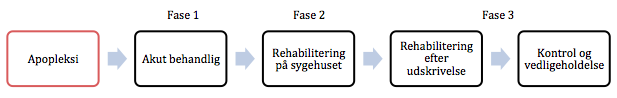
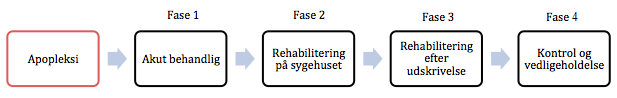
.

Changed region(s): [[0.8622, 0.1224, 0.9546, 0.2143], [0.7699, 0.0918, 0.8314, 0.2143], [0.6775, 0.1224, 0.7391, 0.2143]]

diff --git a/rapportAfsnit/cProblemanalyse/Rehabilitering.tex b/rapportAfsnit/cProblemanalyse/Rehabilitering.tex
@@ -10,24 +10,40 @@ Apopleksi patienten skal i samarbejde med lægen, sygeplejersken og andet hjælp
 Sundhedsstyrelsen har udarbejdet et forløbsprogram for rehabilitering af patienter med erhvervet hjerneskade. Forløbsprogrammet strækker sig fra at patienten erhverver hjerneskaden til at patienten har opnået bedst mulig funktionsevne, hvorefter der udføres kontrol og vedligeholdelse af funktionsevnen. Tidsperioden af rehabilitering varierer ift. hjerneskadens sværhedsgrad, samt sværhedsgraden af funktionstabet. %dog kan perioden vare flere år.  
 \cite{Sundhedsstyrelsen2011a}
 
-Forløbsprogrammet er essentielt i forhold til at kunne give patienten den korrekte rehabilitering. Patienterne har forskellige behov og er afhængige af hjælp fra plejepersonale. Deruodver kræves der forskellige former for teknologi i de forskellige faser. Det vil derfor være oplagt at undersøge, hvilken form for rehabilitering der er at foretrække i de enkelte faser som ses på \figref{trefaser}.
+Forløbsprogrammet er essentielt i forhold til at kunne give patienten den korrekte rehabilitering. Patienterne har forskellige behov og er afhængige af hjælp fra plejepersonale. Deruodver kræves der forskellige former for teknologi i de forskellige faser. Det vil derfor være oplagt at undersøge, hvilken form for rehabilitering der er at foretrække i de enkelte faser som ses på \figref{firefaser}.
 
 \begin{figure}[H]
 	\centering
 	\includegraphics[scale=0.6]{figures/bProblemanalyse/flowdiagram_faser1.png}
-	\caption{På figuren ses et overblik over de tre faser, som patienter med apopleksi skal igennem i forløbsprogrammet for rehabilitering \cite{Sundhedsstyrelsen2011a}} 
-	\label{trefaser}
+	\caption{På figuren ses et overblik over de fire faser, som patienter med apopleksi skal igennem i forløbsprogrammet for rehabilitering \cite{Sundhedsstyrelsen2011a}} 
+	\label{firefaser}
 \end{figure}
 
 \subsubsection{Den første fase}
-Som det vises på \figref{trefaser} afspejler første fase den del af forløbsprogrammet som foregår på sygehusets apopleksiafdeling. På apopleksiafdelingen foretages primært akut behandling for at begrænse skaderne. Når patientens sikkerhed er sikret og skaderne er begrænset påbegyndes den tidlige rehabilitering. Under den tidlige rehabilitering giver en speciallæge i neurologi en vurdering af patientens rehabiliteringsbehov. Derudover bliver patienterne overvåget i forhold til bevidsthed, ændringer og amnesi samt foretaget vurderinger af basale fysiologiske funktioner. Samtidig bliver der iværksat træning i diverse bevægelsesfunktioner, basale egenskaber og kommunikationsfunktioner. Patienterne gennemgår også en tidlig behandling og diagnostik for at undersøge komplicerende tilstande, som f.eks. vaskulære hændelser, blodpropper i ben og lunger og smerter. Patienterne vurderes i denne fase af fagkyndigt personale som ergoterapeut, fysioterapeut og audiologopæd \fxnote{høre og talepædagog}. Disse er med til, at sikre, at patienten udfører træningen korrekt i forhold til stilmulering og træning af bevægelsesfunktioner, taletræning og udførsel af basale daglige aktiviteter.\cite{Sundhedsstyrelsen2011a}
+Som det vises på \figref{firefaser} afspejler første fase den del af forløbsprogrammet som foregår på sygehusets apopleksiafdeling. På apopleksiafdelingen foretages primært akut behandling for at begrænse skaderne. Når patientens sikkerhed er sikret og skaderne er begrænset påbegyndes den tidlige rehabilitering. Under den tidlige rehabilitering giver en speciallæge i neurologi en vurdering af patientens rehabiliteringsbehov. Derudover bliver patienterne overvåget i forhold til bevidsthed, ændringer og amnesi samt foretaget vurderinger af basale fysiologiske funktioner. Samtidig bliver der iværksat træning i diverse bevægelsesfunktioner, basale egenskaber og kommunikationsfunktioner. Patienterne gennemgår også en tidlig behandling og diagnostik for at undersøge komplicerende tilstande, som f.eks. vaskulære hændelser, blodpropper i ben og lunger og smerter. Patienterne vurderes i denne fase af fagkyndigt personale som ergoterapeut, fysioterapeut og audiologopæd \fxnote{høre og talepædagog}. Disse er med til, at sikre, at patienten udfører træningen korrekt i forhold til stilmulering og træning af bevægelsesfunktioner, taletræning og udførsel af basale daglige aktiviteter.\cite{Sundhedsstyrelsen2011a}
 
 \subsubsection{Den anden fase}
-Det fremgår af \figref{trefaser}, at patienten i den anden fase gennemgår rehabilitering på sygehuset, hvor der er fokus på de skadede funktioner. Ligeledes bliver patienten på samme måde som i fase et undervist af fagkyndigt personale. Hvorefter patientens behov for rehabilitering og rehabiliteringens udvikling vurderes. Patienterne bliver i denne fase udredet i forhold til funktionsevne, mentale funktioner, bevægelsesfunktioner herunder bevægelse og mobilitet i led, knogler, reflekser og muskler samt rehabilitering med henblik på daglige aktiviteter. Hvis patienten vurderes til at have en stabil udvikling i rehabiliteringsprocessen, vil patienten blive udskrevet og påbegynde fase tre. \cite{Sundhedsstyrelsen2011a}
+Det fremgår af \figref{firefaser}, at patienten i den anden fase gennemgår rehabilitering på sygehuset, hvor der er fokus på de skadede funktioner. Ligeledes bliver patienten på samme måde som i fase et undervist af fagkyndigt personale. Hvorefter patientens behov for rehabilitering og rehabiliteringens udvikling vurderes. Patienterne bliver i denne fase udredet i forhold til funktionsevne, mentale funktioner, bevægelsesfunktioner herunder bevægelse og mobilitet i led, knogler, reflekser og muskler samt rehabilitering med henblik på daglige aktiviteter. Hvis patienten vurderes til at have en stabil udvikling i rehabiliteringsprocessen, vil patienten blive udskrevet og påbegynde fase tre. \cite{Sundhedsstyrelsen2011a}
 
 
 \subsubsection{Den tredje fase}
-I den tredje og sidste fase er patienten udskrevet fra sygehuset. Derved foregår rehabilitering som ambulant rehabilitering og selvstændig træning som det fremgår af \figref{trefaser}.  Selve rehabiliteringen i tredje fase er bygget op ud fra rehabiliteringsforløbet i den anden fase. Det afgørende er for den tredje faser, hvorvidt patienten skal vedblive rehabilitering på sygehuset, eller om patienten henvises til rehabilitering i de kommunale rehabiliteringscentre. Dette afgøres på baggrund af observationer foretaget i anden fase.  Den selvstændige træning, kan for patienterne med neglekt være en udfordring i forhold til bevægelsesmønstre og kropsholdning. Patienterne går derfor stadig til kontrol og vedligeholdelse for at sikre, at rehabiliteringens udvikling er stabil. Det kan i sidste ende have betydning for, hvor lang tid det tager for patienten at generhverve sine tabte funktioner. Den tredje fase varierer derfor fra patient til patient alt efter udviklingen af rehabiliteringen.\cite{Sundhedsstyrelsen2011a}
+I den tredje er patienten udskrevet fra sygehuset. Derved foregår rehabilitering som ambulant rehabilitering og selvstændig træning, som det fremgår af \figref{firefaser}.  Selve rehabiliteringen i tredje fase er bygget op ud fra rehabiliteringsforløbet i den anden fase. Det afgørende for den tredje fase er, hvorvidt patienten skal vedblive rehabilitering på sygehuset eller henvises til de kommunale rehabiliteringscentre. Dette afgøres på baggrund af observationer foretaget i anden fase. Den selvstændige træning kan for patienter med neglekt og balanceproblemer være en udfordring ift. bevægelsesmønstre og kropsholdning. \cite{Sundhedsstyrelsen2011a}
+
+\subsubsection{Den fjerde fase}
+Det fremgår på \figref{firefaser}, at fjerde fase er den afsluttende fase for behandlingsforløbet. Patienterne går stadig til kontrol og vedligeholdelse for at sikre, at rehabiliteringens udvikling er stabil. Det kan i sidste ende have betydning for, hvor lang tid det tager for patienten at generhverve sine tabte funktioner. Den fjerde fase varierer derfor fra patient til patient alt efter udviklingen af rehabiliteringen.\cite{Sundhedsstyrelsen2011a} \\
+
+\subsection{Organisatorisk}
+Sygehusvæsenet, almen praksis og kommuner har opgaver i alle faser, dog i varierende grad. Således har sygehuset flest opgaver i fase I og II, mens kommunen og almen praksis har flest opgaver i fase III (og IV) \cite{Sundhedsstyrelsen2011a}.
+
+%\section{Organisatorisk}
+%I sundhedssektoren arbejder de forskellige organisatoriske aktører på tværs af hinanden. Der er således et samarbejde mellem syghuse, kommuner og praktiserende læger. Dette samarbejde skal ske både internt på syghusene, på afdelingerne og kommunalt mellem forvaltningerne \cite{Sundhedsstyrelsen2010}. Samspillet mellem aktørerne er vigtigt, da patienter med hjerneskade berører flere afdelinger. De har derfor brug for involvering af flere sundhedsprofessionelle grupper under behandling og rehabilitering på grund af de omfattende og alvorlige konsekvenser.
+
+%De ovennævnte aktører er de organisatoriske enheder, der har en central rolle i forløbet. Det er ikke muligt at fastlægge en egentlig organisering af hjerneskaderehabiliteringen i Danmark, da sammenspillet mellem de forskellige aktører er meget flydende og forskellige alt efter hvor i landet man befinder sig og hvor omfattende hjerneskaden er. Denne forskel opleves regionalt, hvor behandling og rehabilitering enkelte steder foregår på få af sygehusets afdelinger, mens patienter andre steder behandles på et rehabiliteringssygehus, efter den akutte behandling er foretaget.\cite{Sundhedsstyrelsen2010}
+
+%I starten af behandlingssforløbet sendes patienterne til neurologiske, geriatriske, neurokirurgiske og medicinske afdelinger på sygehuset. Som tidligere nævnt inddeles patienterne efter sværhedsgrad af hjerneskaden, hvor de sværest ramte, som er patienter med traumatisk hjerneskade og tilgrænsede lidelser, vidererstilles til Hammel og Hvidovre. Rehabiliteringen kan også ske på rehabiliteringsafsnittene på landets sygehuse.
+%Det primære ansvar ligger hos kommunerne i form af genoptræningsplanens afdækning af rehabiliteringsbehov, dvs. at kommunerne holder øje med om dette foregår i praksis, herunder bl.a. patientens genoptræningsbehov. Kommunen har derudover mulighed for at henvise patienterne til dens egne tilbud, samt at henvise til private.\cite{Sundhedsstyrelsen2010} 
+
+%Afslutningsvis gennemgår patienterne et langt og forskelligt behandlingsforløb alt efter hjerneskadens omfang. Forløbet indebærer et samarbejde mellem de forskellige aktører. Efter behandlingen står kommunerne, som førnævnt, for det primære ansvar i forhold til rehabilitering og henvisning for patienten\fxnote{hvor kommer denne info fra?}.
 
 
 

diff --git a/rapportAfsnit/cProblemanalyse/teknologier_til_rehabilitering.tex b/rapportAfsnit/cProblemanalyse/teknologier_til_rehabilitering.tex
@@ -2,7 +2,7 @@
 \subsection{Nuværende metoder til rehabilitering}
 
 Inden patienten udskrives fra sin behandling skal der fra sundhedssektorens side være udarbejdet en genoptræningsplan. I denne plan besluttes det hvilken form for rehabilitering og teknologi patienten skal benytte sig af. \cite{Sundhedsstyrelsen2011a} \\
-Der findes flere forskellige metoder og teknologier til at hjælpe med balance og gangproblemer. Disse omfatter: 
+Der findes flere forskellige metoder og teknologier til at hjælpe med balance og gangproblemer. Disse omfatter: \cite{Sundhedsstyrelsen2011a}  
 
 \begin{itemize}
 \item Platform feedback
@@ -14,19 +14,24 @@ Der findes flere forskellige metoder og teknologier til at hjælpe med balance o
 \item Spejlterapi
 \item Programmer til motorisk visualisering
 \item Passiv sensorisk stimulation
-\end{itemize}
- \cite{Sundhedsstyrelsen2011a} \\
-Platform feedback er en biofeedback metode, hvor patienten står på en platform. Platformen vil herefter måle hvor meget patienten svajer \fxnote{(centre of pressure)}. Når platformen har målt svajningen af patienten, kan denne enten få visuel eller auditiv feedback. Feedbacken skal gøre patienten mere opmærksom på, hvor meget kroppen svajer, hvilket gør det muligt at opretholde en stående position. \cite{Barclay-Goddard2004}
-Denne form for teknologi benyttes særligt i de tidlige faser af rehabiliteringen\cite{Sundhedsstyrelsen2011a}. \\
-Det er med høj evidens blevet påvist, at fokuseret gangtræning medfører en moderat grad af bedringen på gangfunktionen hos apopleksiramte\cite{Sundhedsstyrelsen2010}. Derudover er det også vist, at konditionstræning kan være med til at forbedre gangfunktionen\cite{Sundhedsstyrelsen2010}. \\
-Auditorisk rytmestøtte er en metode, hvor patienten lytter eller udfører handlinger til en form for musik. Det mest centrale ved musikken er rytmen, der findes i den. \cite{Bradt2010}
-Det er vist, at denne metode kan øge både ganghastigheden, skridtlængden og gangsymmetrien \cite{Sundhedsstyrelsen2010}. \\
-Ved elektromekanisk fysioterapistøttet gangtræning benytter fysioterapeuten sig af en maskine til hjælp af patientens gang. Maskinen består af enten et robot-drevet exoskelet eller to drevne mekaniske plader, der simulerer gang hos patienten. \cite{Mehrholz2013}
-Denne form for metode har vist at kunne øge skridthastighed, skridtlængde og skridtsymmetri \cite{Sundhedsstyrelsen2010}. Denne metode benyttes til patienter med svært nedsat gangfunktion, med særlig fokus på de tidlige faser af rehabiliteringen \cite{Sundhedsstyrelsen2011a}. \\
-Opgavespecifik repetitiv træning omfatter aktivitetsbestemte motoriske opgaver, som er bestemt til den enkelte patient. Disse opgaver tager udgangspunkt i hverdagsaktiviteter. Denne metode kan have effekt på patienternes gangfunktion, gangdistance og -hastighed. \cite{Sundhedsstyrelsen2010} \\
-Spejlterapi er en træning af bevægelser, hvor patienten laver en række bevægelsesmønstre med den raske side af kroppen. Herefter bliver disse bevægelser spejlet til den syge side af kroppen. Dette vil skabe en illusion af et normalt bevægelsesmønster af den syge side hos patienten. \cite{Sundhedsstyrelsen2010} Denne metode skal tilbydes under hele rehabiliteringen \cite{Sundhedsstyrelsen2011a}.\fxnote{Måske uddybe, hvordan spejlingen foregår..} \\
-Programmer til motorisk visualisering kan bl.a. være "virtual reality" \cite{Sundhedsstyrelsen2010}. Dette er en form for program, hvor en computer modellerer og simulerer et miljø, som patienten kan placeres i vha. briller og andre interaktive apparater \cite{Lowood2015}. Dette gør at patienten kan simulere bevægelser, som de ikke nødvendigvis er i stand til i virkeligheden. Det er uafklaret, hvilken effekt denne form for rehabilitering har \cite{Sundhedsstyrelsen2010}. \\
+\end{itemize} \\
+
+Platform feedback er en biofeedback metode, hvor patienten står på en platform. Platformen vil herefter måle hvor meget patienten svajer \fxnote{centre of pressure}. Når platformen har målt svajningen af patienten, kan denne enten få visuel eller auditiv feedback. Feedbacken skal gøre patienten mere opmærksom på, hvor meget kroppen svajer, hvilket gør det muligt at opretholde en stående position. \cite{Barclay-Goddard2004}
+Denne form for teknologi benyttes særligt i de tidlige faser af rehabiliteringen \cite{Sundhedsstyrelsen2011a}. \\
+Det er med høj evidens blevet påvist, at fokuseret gangtræning medfører en forbedringen af gangfunktionen hos apopleksiramte\cite{Sundhedsstyrelsen2010}. Derudover er det også vist, at konditionstræning kan være med til at forbedre gangfunktionen\cite{Sundhedsstyrelsen2010}.
+
+Auditorisk rytmestøtte er en metode, hvor patienten lytter eller udfører handlinger til en form for musik. Det mest centrale ved musikken er rytmen, der findes i den. \cite{Bradt2010} Det er vist, at denne metode kan øge både ganghastigheden, skridtlængden og gangsymmetrien \cite{Sundhedsstyrelsen2010}.
+
+Ved elektromekanisk fysioterapistøttet gangtræning benytter fysioterapeuten sig af en maskine til hjælp af patientens gang. Maskinen består af enten et robot-drevet exoskelet eller to drevne mekaniske plader, der simulerer gang hos patienten. \cite{Mehrholz2013} Denne form for metode har vist at kunne øge skridthastighed, skridtlængde og skridtsymmetri \cite{Sundhedsstyrelsen2010}. Denne metode benyttes til patienter med svært nedsat gangfunktion, med særlig fokus på de tidlige faser af rehabiliteringen \cite{Sundhedsstyrelsen2011a}.
+
+Opgavespecifik repetitiv træning omfatter aktivitetsbestemte motoriske opgaver, som er bestemt til den enkelte patient. Disse opgaver tager udgangspunkt i hverdagsaktiviteter. Denne metode kan have effekt på patienternes gangfunktion, gangdistance og -hastighed. \cite{Sundhedsstyrelsen2010}
+
+Spejlterapi er en træning af bevægelser, hvor patienten laver en række bevægelsesmønstre med den raske side af kroppen. Herefter bliver disse bevægelser spejlet til den syge side af kroppen. Dette vil skabe en illusion af et normalt bevægelsesmønster af den syge side hos patienten. \cite{Sundhedsstyrelsen2010} Denne metode skal tilbydes under hele rehabiliteringen \cite{Sundhedsstyrelsen2011a}.\fxnote{Måske uddybe, hvordan spejlingen foregår..}
+
+Programmer til motorisk visualisering kan bl.a. være "virtual reality" \cite{Sundhedsstyrelsen2010}. Dette er en form for program, hvor en computer modellerer og simulerer et miljø, som patienten kan placeres i vha. briller og andre interaktive apparater \cite{Lowood2015}. Dette gør at patienten kan simulere bevægelser, som de ikke nødvendigvis er i stand til i virkeligheden. Det er uafklaret, hvilken effekt denne form for rehabilitering har \cite{Sundhedsstyrelsen2010}.
+
 Passiv sensorisk stimulation er en rehabiliteringsform, hvor patienten modtager elektrisk stimulation, der ikke aktiverer musklerne. Stimulationen er der for at fortælle patienten om, hvad kroppen foretager sig, så det bliver muligt at korrigere bevægelserne. \cite{Sundhedsstyrelsen2010} Denne form for metode tilbydes under hele rehabiliteringsforløbet \cite{Sundhedsstyrelsen2011a}.\fxnote{Dette må også gerne uddybes - hvordan har det en gavnlig effekt at ens muskler ikke aktiveres?}
+\fxnote{Kan man sætte figuren ind fra s. 27 på denne - http://sundhedsstyrelsen.dk/~/media/425B29A5B3CF4C69B2E7E8F3B7D520BC.ashx}
 %
 %
 %[1] - http://onlinelibrary.wiley.com.zorac.aub.aau.dk/doi/10.1002/14651858.CD004129.pub2/full

diff --git a/rapportAfsnit/cProblemanalyse/Patientsikkerhed.tex b/rapportAfsnit/cProblemanalyse/Patientsikkerhed.tex
@@ -1,6 +1,6 @@
 % !TeX spellcheck = da_DK
 \subsection{Patientsikkerhed}
-Ved brug af medicinsk udstyr er sikkerheden for patienten vigtig, da de ofte er hæmmede eller svækkede og derfor yderligere følsomme. Patientsikkerhed indebærer fokus på de fysiologiske konsekvenser patienten kan blive udsat for, når de tilkobles elektroniske kredsløb. Hvis ikke patientens sikkerhed er i orden, vil vedkommende opleve at blive en del at det elektroniske kredsløb. Dette kan medføre alvorlige følger, da patienten vil blive udsat for elektrisk strøm. Når elektrisk strøm løber igennem biologisk væv, kan tre fænomener forekomme: modstandsopvarmning af væv, elektrokemiske forbrændinger og elektrisk stimulering af muskel- og nervevæv. [1] 
+Ved brug af medicinsk udstyr er sikkerheden for patienten vigtig, da de ofte er hæmmede eller svækkede og derfor yderligere følsomme. Patientsikkerhed indebærer fokus på de fysiologiske konsekvenser patienten kan blive udsat for, når de tilkobles elektroniske kredsløb. Hvis ikke patientens sikkerhed er i orden, vil vedkommende opleve at blive en del at det elektroniske kredsløb. Dette kan medføre alvorlige følger, da patienten vil blive udsat for elektrisk strøm. Når elektrisk strøm løber igennem biologisk væv, kan tre fænomener forekomme: modstandsopvarmning af væv, elektrokemiske forbrændinger og elektrisk stimulering af muskel- og nervevæv. \cite{Webster2009}
 \begin{figure}[H]
 	\centering
 	\includegraphics[scale=0.7]{figures/bProblemanalyse/Patientsikkerhed.png}
@@ -21,14 +21,11 @@ På \figref{Patientsikkerhed} ses den effekt som elektrisk strøm kan have på p
 
 \item I det 5. stadie på \figref{Patientsikkerhed} er strømstyrken mellem 1 A og 100 A. Her sker kontraktioner af hele hjertemuskulaturen. Dette kan resultere i hjertestop, da hjertet er konstant kontraheret og derfor ikke kan videregive elektriske signaler. 
 
-\item Ved det 6. og sidste stadie på \figref{Patientsikkerhed} vil patienten opleve stærk strøm, som kan medføre alvorlige brandsår på huden. Ved store strømstyrker kan muskelkontraktionerne blive så kraftige, at musklen og knoglerne kan løsrive sig fra hinanden. Derudover vil hjernen og nervevæv miste alle funktioner, når store strømme løber gennem kroppen. Som det ses på \figref{Patientsikkerhed} kan flere af stadierne overlappe hinanden og foregå samtidig. [1]
+\item Ved det 6. og sidste stadie på \figref{Patientsikkerhed} vil patienten opleve stærk strøm, som kan medføre alvorlige brandsår på huden. Ved store strømstyrker kan muskelkontraktionerne blive så kraftige, at musklen og knoglerne kan løsrive sig fra hinanden. Derudover vil hjernen og nervevæv miste alle funktioner, når store strømme løber gennem kroppen. Som det ses på \figref{Patientsikkerhed} kan flere af stadierne overlappe hinanden og foregå samtidig. \cite{Webster2009}
 \end{enumerate}
 
 \subsubsection{Makro- og mikrochok}
 
-Der er forskellige muligheder for, hvordan den elektriske strøm løber igennem kroppen, hvilket bestemmer, hvor skadende strømmen er for patienten. De to forskellige muligheder er makro- og mikrochok. Makrochok sker, når strømmen løber igennem kroppen ved to punkter på hudens overflade og derved går kun en mindre del af strømmen igennem hjertet. Mikrochok sker, når det meste af strømmen løber igennem hjertet. Strømmen kommer fra et punkt på hudens overflade og forekommer hos patienter med elektriske ledere i hjertet f.eks. katetere. [1]
+Der er forskellige muligheder for, hvordan den elektriske strøm løber igennem kroppen, hvilket bestemmer, hvor skadende strømmen er for patienten. De to forskellige muligheder er makro- og mikrochok. Makrochok sker, når strømmen løber igennem kroppen ved to punkter på hudens overflade og derved går kun en mindre del af strømmen igennem hjertet. Mikrochok sker, når det meste af strømmen løber igennem hjertet. Strømmen kommer fra et punkt på hudens overflade og forekommer hos patienter med elektriske ledere i hjertet f.eks. katetere. \cite{Webster2009}
 
-Det er vigtigt at have fokus på patientsikkerhed, når der skal fremstilles medicinsk udstyr, som skal tilsluttes patienter. Dette kan gøres med en jordforbindelse i systemet eller ved at sørge for, der ikke er direkte kontakt mellem patienten og elnettet. Store mængder strøm kan have alvorlige konsekvenser for patientens heldbred. 
-
-
-%[1] - Medical Instrumentation: Application and Design. Webster, John G. 2009.
+Det er vigtigt at have fokus på patientsikkerhed, når der skal fremstilles medicinsk udstyr, som skal tilsluttes patienter. Dette kan gøres med en jordforbindelse i systemet eller ved at sørge for, der ikke er direkte kontakt mellem patienten og elnettet. Store mængder strøm kan have alvorlige konsekvenser for patientens heldbred.

diff --git a/rapportAfsnit/cProblemanalyse/foelger.tex b/rapportAfsnit/cProblemanalyse/foelger.tex
@@ -13,7 +13,7 @@ Som følge af apopleksi oplever nogle patienter problemer med balancen. Dette ka
 
 Balancen er et komplekst system, da flere forskellige kropssystemer samarbejder om at sende balanceinformation til hjernen, hvor de bearbejdes. Balancen styres f.eks. af proprioceptorer og sansereceptorer i øjne og øre. Proprioceptorerne kontrollerer muskler, sener og leds position - altså styrer proprioceptorerne de ubevidste bevægelser, som hjælper til balancen. \cite{Martini2012} Sansereceptorer opfanger sanseindtryk og videresender informationen til områder i cerebral cortex, cerebellum og til centre i hele hjernestammen. Disse områder bearbejder informationen for at konkludere den fysiske position af kroppen og dens lemmer. \cite{Martini2012,Karnath2003} Proprioceptorer og sansereceptorerne samt hvor de findes bliver uddybet nærmere i bilag \ref{app-Balance}, hvor der også er en anatomisk forklaring heraf.
 
-Apopleksipatienter kan opleve problemer med balancen i den transversale retning i det frontale plan. Patienterne kan hænge mod deres syge side uden de er opmærksomme på det, hvilket besværliggør funktioner i dagligdagen og giver øget risiko for faldulykker. Et eksempel på, hvordan balancen påvirkes, er ”Pusher Syndrom”. Pusher Syndrom er en lidelse, hvor halvsidigt lammede patienter aktivt "skubber" deres kropsvægt mod den lammede kropsside. Lidelsen kan opstå som følge af både højre- og venstresidig hjerneskade. Patienter med Pusher Syndrom registrerer ikke, at deres krop hænger, hvilket kan være med til at besværliggøre funktioner i dagligdagen og giver øget risiko for faldeulykker. Derudover har patienten ofte problemer med at læne sig fremad, samt risiko for faldeulykker i både stående, gående og siddende stilling. \cite{Karnath2003} \fxnote{evt. billede af en patient med pusher syndrom}
+Apopleksipatienter kan opleve problemer med balancen i den transversale retning i det frontale plan. Patienterne kan hænge mod deres syge side uden de er opmærksomme på det, hvilket besværliggør funktioner i dagligdagen og giver øget risiko for faldulykker. Et eksempel på, hvordan balancen påvirkes, er “Pusher Syndrom”. Dette er en lidelse, hvor halvsidigt lammede patienter aktivt “skubber” deres kropsvægt mod den lammede kropsside \cite{Karnath2003}. Lidelsen kan opstå som følge af både højre- og venstresidig hjerneskade. Patienter med Pusher Syndrom registrerer ikke, at deres krop hænger, hvilket kan være med til at besværliggøre funktioner i dagligdagen og giver øget risiko for faldeulykker. Derudover har patienten ofte problemer med at læne sig fremad, samt risiko for faldeulykker i både stående, gående og siddende stilling. \cite{Karnath2003} \fxnote{evt. billede af en patient med pusher syndrom}
 
 \subsection{Neglekt}
 Ved indlæggelse er cirka 25\% af apopleksipatienterne ramt af neglekt\cite{Sundhedsstyrelsen2009}. Patienter med neglekt er ikke opmærksomme på den ene side af kroppen. Sygdommen kan forekomme på to måder; visuelt og kropsligt, og derfor kan neglekt også opfattes som en sensorisk eller motorisk skade\fxnote{http://gade.psy.ku.dk/bogkap/neglekt.htm - skal IKKE indsættes i kildeliste, da det ikke er en "pålidelig" kilde, men den er god for os at læse.}. De to typer forekommer ofte samtidig. Ved visuel neglekt mangler patienten sanseindtryk fra den påvirkede side af kroppen. Patienten er eksempelvis ikke opmærksom på den ene side af teksten, når vedkommende skal læse, selvom synet er normalt. Derudover kan patienten opleve kun at spise fra den ene del af tallerkenen, eftersom hjernen ikke registrerer den anden halvdel. Ved den kropslige neglekt har patienten manglende kropsbevidsthed. Patienten har ofte normal følelse i den syge side af kroppen - indtrykkene bemærkes, men registres ikke i hjernen. Dette kan komme til udtryk idet patienten glemmer at klæde den syge side af kroppen ordentligt på eller kun barbere halvdelen af ansigtet. En alvorlig følge af dette er, at patienten kan udføre ubevidst skade på sig selv, f.eks. ved at støde ind i ting med den syge side eller ikke være opmærksom på, at benene ikke kan bære kropsvægten. Derved kan der på længere sigt forekomme ergonomiske skader andre steder i kroppen. \cite{Sundhed.dk}

diff --git a/rapportAfsnit/cProblemanalyse/Biofeedback.tex b/rapportAfsnit/cProblemanalyse/Biofeedback.tex
@@ -10,8 +10,8 @@ Herunder hører f.eks. EMG-feedback, hvor myoelektriske signaler omsættes til e
 \fxnote{Noget om hvordan signalerne kan måles - elektroder} 
 
 \subsection{Biomekanisk biofeedback}
-Ved biomekanisk biofeedback måles der ikke på kroppens enkelte systemer, men på generelle motoriske egenskaber\fxnote{vil gerne have et bedre udtryk her..}, såsom hvordan kroppen bevæger sig og på selve kropsholdningen.  
-Ved biomekanisk biofeedback findes der flere forskellige typer måleudstyr, herunder inerti-sensorer, kraftplader og kamerasystemer, der alle kan måle forskellige motoriske parametre. Studier har vist, at de forskellige metoder indenfor biomekanisk biofeedback generelt har en positiv effekt på rehabiliteringen af patienter med balanceproblemer. Eksempelvis viste et studie\fxnote{rigtig kildehenvisning??} positive resultater, da effekten af inerti-sensorer i forbindelse med rehabilitering af patienter med kropssvaj, blev testet. Her skulle patienterne på samme tid udføre motoriske og kognitive handlinger imens de gik. Imens modtog de biofeedback ud fra gyroskopmålinger.\cite{Giggins2013} Gyroskopet blev brugt til at måle accelerationen i en bestemt retning\cite{Hjaelpemiddelbasen}. Det viste sig, at især de yngre patienter havde gavn af at modtage signaler omkring deres kropshældning imens de udførte opgaverne. De ældre patienter havde gavn af biofeedbacken imens de kun udførte én af opgaverne - det blev forvirrende for dem at skulle udføre to, imens de skulle fokuserer på balancen.\cite{Giggins2013} 
+Ved biomekanisk biofeedback måles der ikke på kroppens enkelte systemer, men på generelle motoriske egenskaber\fxnote{vil gerne have et bedre udtryk her..}, såsom hvordan kroppen bevæger sig og på selve kropsholdningen.  \\
+Ved biomekanisk biofeedback findes der flere forskellige typer måleudstyr, herunder inerti-sensorer, kraftplader og kamerasystemer, der alle kan måle forskellige motoriske parametre. Studier har vist, at de forskellige metoder indenfor biomekanisk biofeedback generelt har en positiv effekt på rehabiliteringen af patienter med balanceproblemer. Eksempelvis viste et studie\fxnote{rigtig kildehenvisning??} positive resultater, da effekten af inerti-sensorer i forbindelse med rehabilitering af patienter med kropssvaj, blev testet. Her skulle patienterne på samme tid udføre motoriske og kognitive handlinger imens de gik. Imens modtog de biofeedback ud fra gyroskopmålinger.\cite{Giggins2013} Gyroskopet blev brugt til at måle accelerationen i en bestemt retning\cite{Hjaelpemiddelbasen}. Det viste sig, at især de yngre patienter havde gavn af at modtage signaler omkring deres kropshældning imens de udførte opgaverne. De ældre patienter havde gavn af biofeedbacken imens de kun udførte én af opgaverne - det blev forvirrende for dem at skulle udføre to, imens de skulle fokuserer på balancen.\cite{Giggins2013} \\
 Et andet eksempel på positiv effekt med inddragelse af biomekanisk biofeedback er kraftmåling i forbindelse med rehabilitering af patienter med pushersyndrom.
 Der findes et hånddynamometer, der kan benyttes til at måle styrkeforskellen i hhv. højre og venstre hånd, hvilket i nogen tilfælde kan være fordelagtigt at benytte for patienter med pusher-syndrom, da patienterne derved gøres opmærksomme på styrken i deres følelsesløse side.\cite{Hjaelpemiddelbasen}
 

diff --git a/rapportAfsnit/cProblemanalyse/Apopleksi.tex b/rapportAfsnit/cProblemanalyse/Apopleksi.tex
@@ -19,7 +19,8 @@ Et apopleksi tilfælde kan være forårsaget af enten en blodprop i hjernen (isk
 Iskæmisk apopleksi opstår i 80-85\% af tilfældene iblandt det samlede antal af apopleksi ramte \cite{Sundhed.dk2014}. Her blokeres en hjernearterie af en blodprop, der stopper tilførslen af blod til et bestemt område i hjernen, hvilket ses på \figref{haem-isk}. Infarkterne dannes primært pga. åreforkalkning enten ved en trombe, der dannes på stedet, eller emboli fra hjertet. \cite{Schulze2011} Emboli består typisk af fragmenter af blodceller eller kolesterol, som er diffunderet ind i blodcirkulationen af hjernen fra en arterierne \cite{Academic2015a}. En alvorlig blødning et andet sted på kroppen kan også resultere i blokeret eller stoppet blodtilførsel til hjernen. \cite{Hjernesagen2015a} Nervecellerne skades efter få minutter grundet iltmangel, men kan i værste tilfælde fuldstændig dø efter denne periode \cite{Schulze2011,Giraldo2015}.% grundet iltmangel efter få minutter, og hvis dette fortsætter i en periode, vil de til sidst gå tabt. [5] % Specificer denne periode - hvor lang tid går der, før nervecellen går tabt?
 
 \subsubsection{Hæmoragisk apopleksi}
-Hæmoragisk apopleksi opstår i 10-15\% af tilfældene iblandt det samlede antal af apopleksiramte \cite{Sundhed.dk2014}. Årsagen heraf skyldes hovedsagligt forhøjet blodtryk eller, i sjældnere tilfælde, bristede svagheder på arterier eller medfødte misdannede kar \cite{Schulze2011}. Hæmoragisk apopleksi opstår, når en hjernearterie brister og lækage af blod danner en blodansamling, der beskadiger det omkringliggende væv og forøger trykket i hjernen, hvilket ses på \figref{haem-isk}. Intracerebral hæmoragi kommer af forhøjet blodtryk, der danner et pres på de små arterier, som får dem til at briste. \cite{Caplan2006} \\
+Hæmoragisk apopleksi opstår i 10-15\% af tilfældene iblandt det samlede antal af apopleksiramte \cite{Sundhed.dk2014}. Årsagen heraf skyldes hovedsagligt forhøjet blodtryk eller, i sjældnere tilfælde, bristede svagheder på arterier eller medfødte misdannede kar \cite{Schulze2011}. Hæmoragisk apopleksi opstår, når en hjernearterie brister og lækage af blod danner en blodansamling, der beskadiger det omkringliggende væv og forøger trykket i hjernen, hvilket ses på \figref{haem-isk}. Intracerebral hæmoragi kommer af forhøjet blodtryk, der danner et pres på de små arterier, som får dem til at briste. \cite{Caplan2006}
+
 Blødning i subaraknoidalrummet skyldes bristning af en aneurisme i en pulsåre i hjernen \cite{Schulze2011}. Symptomerne ved subaraknoidalblødning er generel tab af hjernefunktion, da der forekommer et øget pres på hjerneskallen, hvorimod ved intracerebral hæmoragi er hæmatomet lokaliseret et bestemt sted i hjernen og forårsager nedsat funktion ved én bestemt hjernefunktion \cite{Caplan2006}. 
 
 

diff --git a/rapportAfsnit/cProblemanalyse/Omkostninger_og_organisatorisk.tex b/rapportAfsnit/cProblemanalyse/Omkostninger_og_organisatorisk.tex
@@ -1,3 +1,4 @@
+% !TeX spellcheck = da_DK
 \section{Samfundsmæssige omkostninger}
 I Danmark opstår 12.000 tilfælde af apopleksi årligt. Apopleksi er den sygdom, der kræver flest plejedøgn i sundhedssektoren\cite{Kruuse2014}. %Uddyb - hvad er et plejedøgn, hvor mange kræver andre syge ?
 Omkostningerne for patienter med følger af apopleksi er både direkte og inddirekte. De direkte omkostninger er udgifter til medicinering, sundhedsomkostninger i form af behandling i hospitalsvæsnet, praktiserende læge og speciallæge, samt hospitalsindlæggelse og rehabilitering både fra et samfundsmæssigt, regionalt og kommunalt perspektiv. De indirekte omkostninger  består af udgifter for tabt arbejdsfortjeneste, tabt produktivitet og ekspertise for samfundet som følge af fravær, tidsforbrug, fremtidige relaterende omkostninger og sundhedsomkostninger til personer med hjerneskade ved forlænget levetid.\cite{Sundhedsstyrelsen2010}

diff --git a/rapportAfsnit/cProblemanalyse/Samfundsomkostninger_fakta_og_livskvalitet.tex b/rapportAfsnit/cProblemanalyse/Samfundsomkostninger_fakta_og_livskvalitet.tex
@@ -1,3 +1,4 @@
+% !TeX spellcheck = da_DK
 \section{Indlæggelsesforløb og Personlige Omkostninger}
 Indlæggelsesforløbene for apopleksipatienter varierer både i antal og hyppighed afhængig af forskellige faktorer - herunder alder og køn.
 
